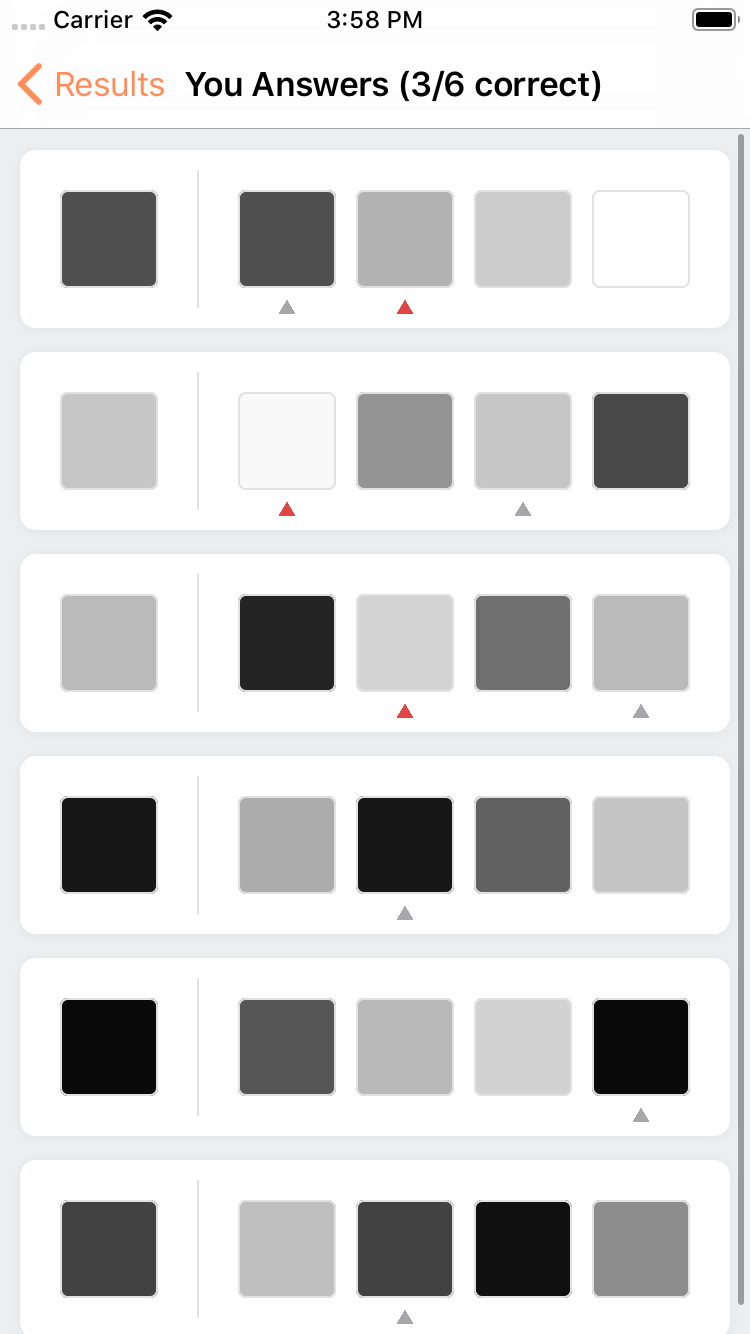
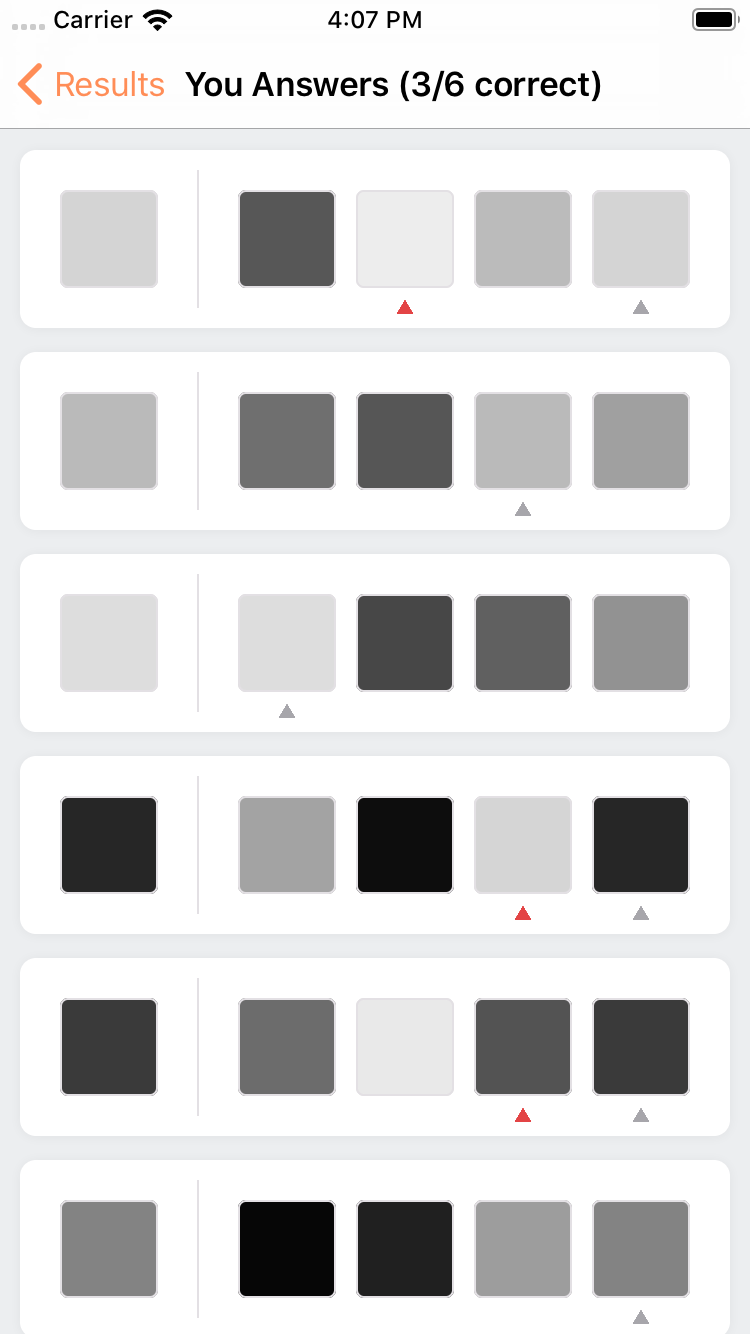
Updated screenshots for monochrome mode

diff --git a/README.md b/README.md
@@ -30,7 +30,7 @@ A collection of challenges (games) that can boost one's cognitive capacity. It's
     <br>
     
     After you finish playing a round of the game, you will see your score. You can also review the questions and compare your answers against the correct ones. Both colors and characters are supported.
-    <br> 
+    
     <img src="Screenshots/recall-result.png" width=240>
     <img src="Screenshots/memory-recall-answers.png" width=240>
     <img src="Screenshots/memory-color-answers.png" width=240>
